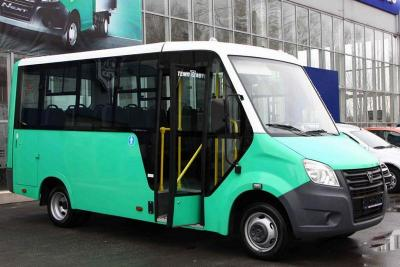
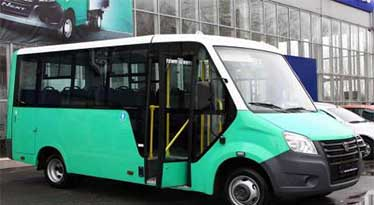
сжатие картинок и стилизация аренда автомобилей

diff --git a/arenda_avto.html b/arenda_avto.html
@@ -353,11 +353,11 @@
                                       <div class="catalog__desc">
                                           <a href="#" class="catalog__link">
                                              <div class="catalog__wrapp-pic price--position ">
-                                                   <img src="/assets/img/foto/home1.jpg" alt="catalog-pic"
+                                                   <img src="/assets/img/foto/h1.jpg" alt="catalog-pic"
                                                    class="catalog__pic">
-                                                   <div class="price">45000 сом</div>
+                                                   <div class="price">10000 сом</div>
                                              </div>                                        
-                                              <span class="catalog__text catalog--color ">Особняк районе Арча-Бешик Кара-Коо</span>
+                                              <span class="catalog__text catalog--color ">Hyndau H-1</span>
                                           </a>
                                       </div>
                                   </li>
@@ -365,11 +365,11 @@
                                       <div class="catalog__desc">
                                           <a href="#" class="catalog__link">
                                                 <div class="catalog__wrapp-pic price--position ">
-                                                      <img src="/assets/img/foto/home3.jpg" alt="catalog-pic"
+                                                      <img src="/assets/img/foto/3221b.jpg" alt="catalog-pic"
                                                       class="catalog__pic">
-                                                      <div class="price">35000 сом</div>
+                                                      <div class="price">15000 сом</div>
                                                 </div> 
-                                              <span class="catalog__text catalog--color ">Особняк 4-х уровневый р/н Киргизия-1</span>
+                                              <span class="catalog__text catalog--color ">Микроавтобус 6-10 мест</span>
                                           </a>
                                       </div>
                                   </li>
@@ -377,11 +377,11 @@
                                       <div class="catalog__desc">
                                           <a href="#" class="catalog__link">
                                                 <div class="catalog__wrapp-pic price--position ">
-                                                      <img src="/assets/img/foto/home4.jpg" alt="catalog-pic"
+                                                      <img src="/assets/img/foto/Sprinter-906-Bus-tmb.jpg" alt="catalog-pic"
                                                       class="catalog__pic">
-                                                      <div class="price">55000 сом</div>
+                                                      <div class="price">550 сом</div>
                                                 </div> 
-                                              <span class="catalog__text catalog--color "> 4-x комнатная квартира р/н Киргизия-1</span>
+                                              <span class="catalog__text catalog--color ">Микроавтобус 12 мест </span>
                                           </a>
                                       </div>
                                   </li>
@@ -389,11 +389,11 @@
                                       <div class="catalog__desc">
                                           <a href="#" class="catalog__link">
                                                 <div class="catalog__wrapp-pic price--position ">
-                                                      <img src="/assets/img/foto/guest_house1.JPG" alt="catalog-pic"
+                                                      <img src="/assets/img/foto/1trif.jpg" alt="catalog-pic"
                                                       class="catalog__pic">
-                                                      <div class="price">25000 сом</div>
+                                                      <div class="price">500 сом</div>
                                                 </div> 
-                                              <span class="catalog__text catalog--color ">Гостевой дом "Дипломат" </span>
+                                              <span class="catalog__text catalog--color ">Микроавтобус 20 мест</span>
                                           </a>
                                       </div>
                                   </li>                                  
